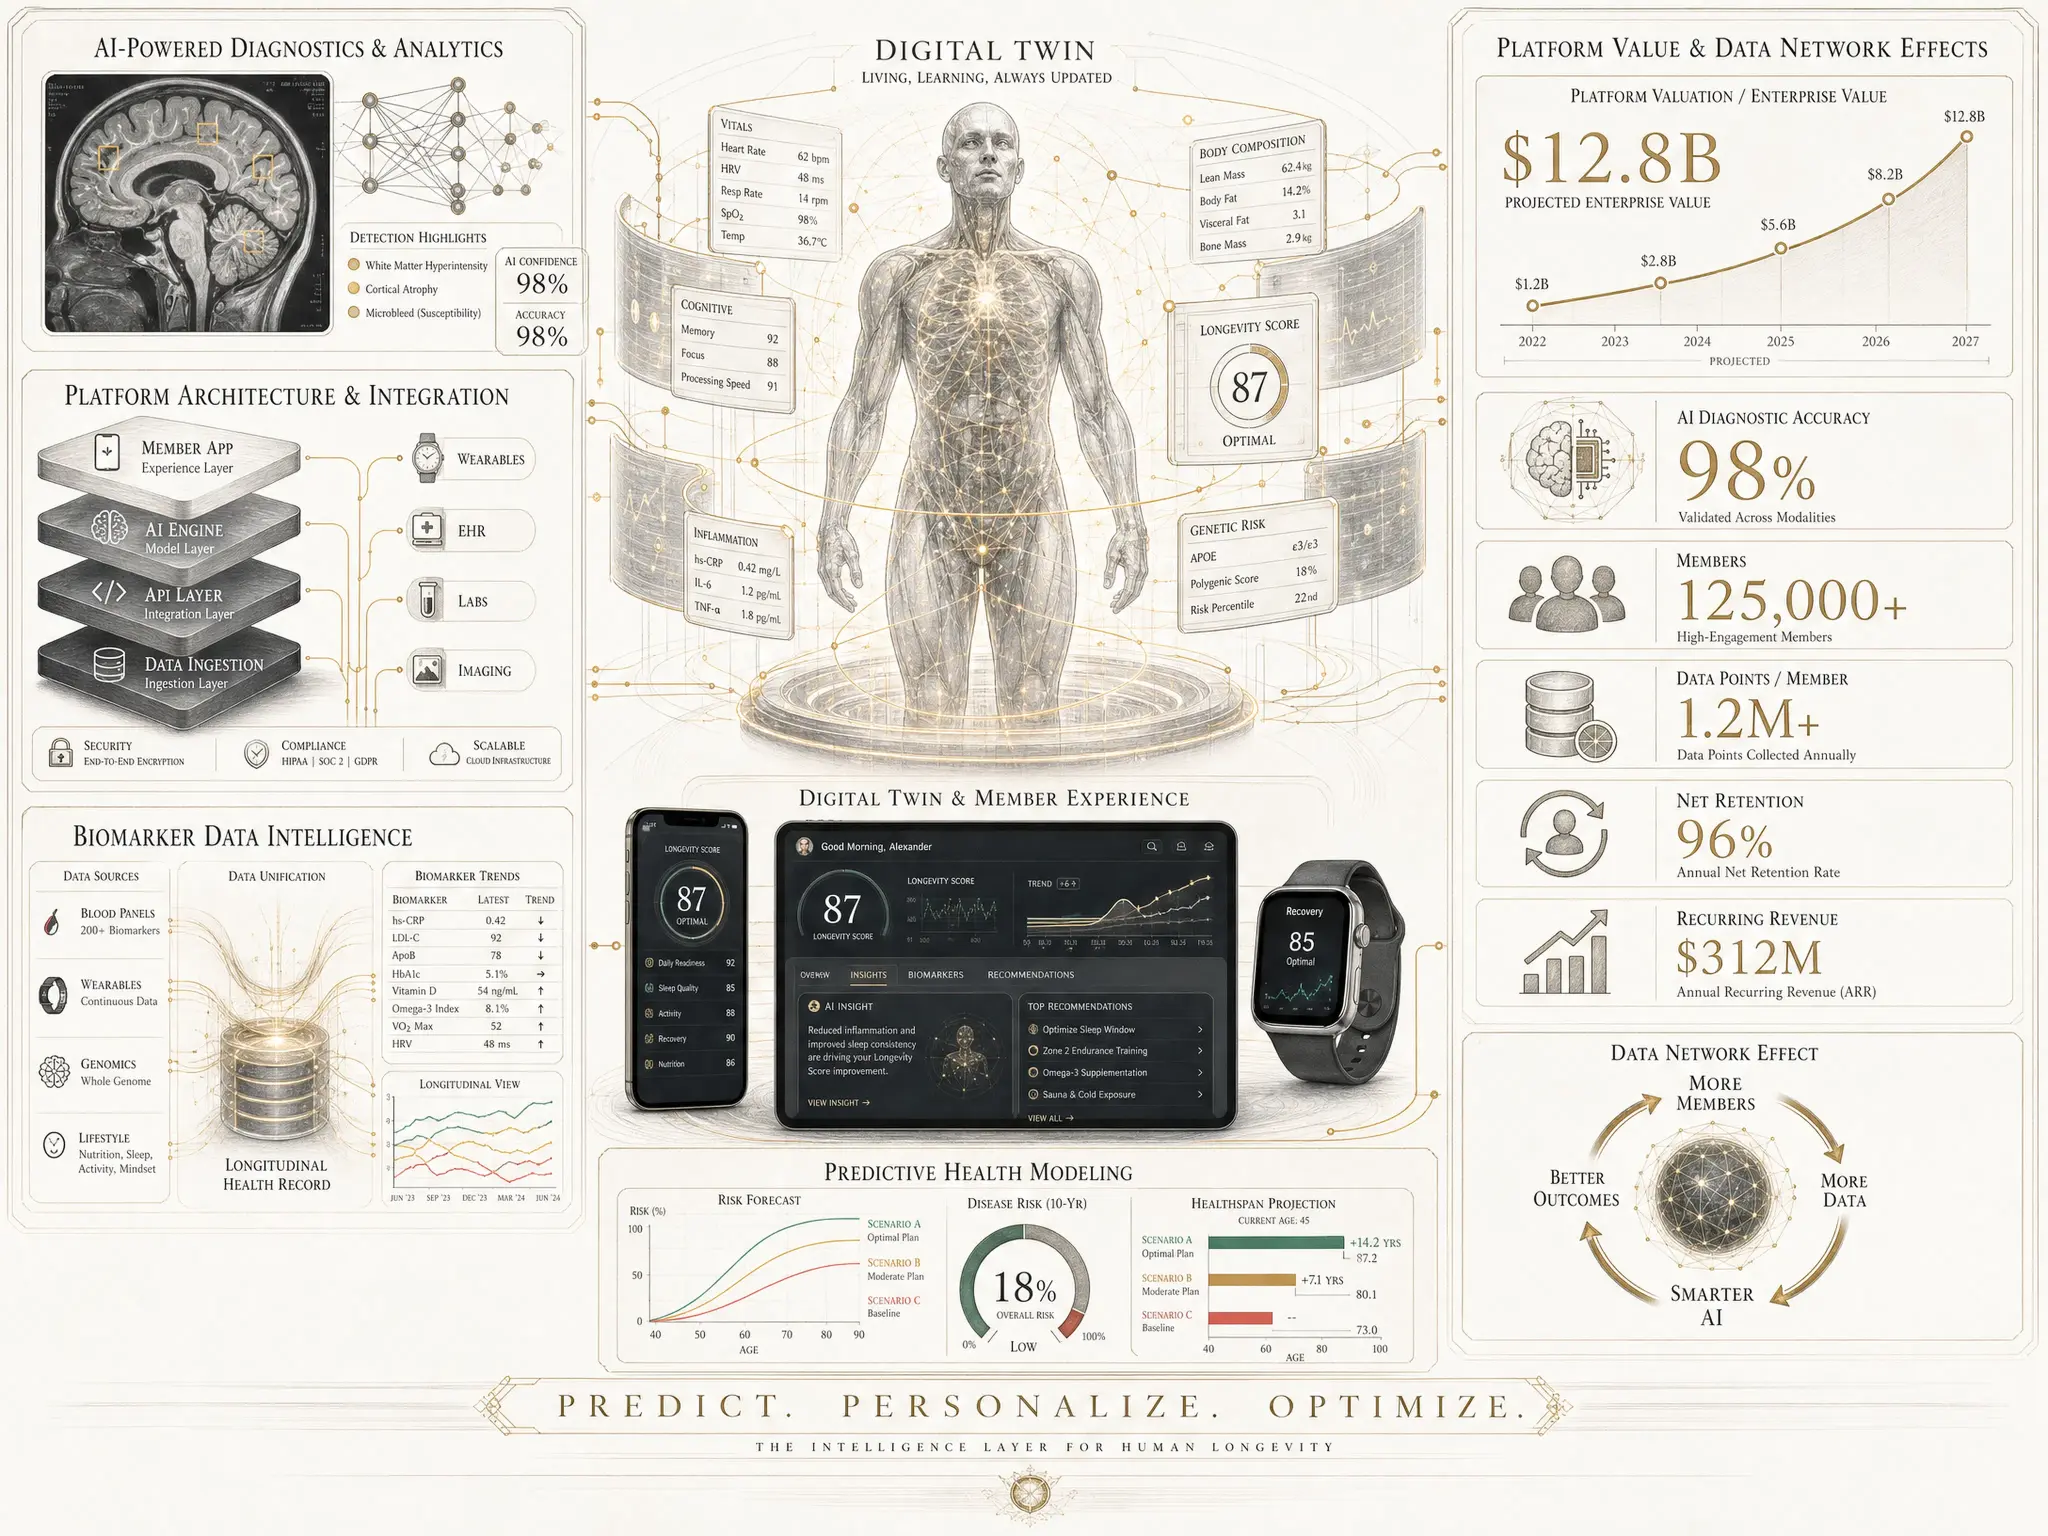
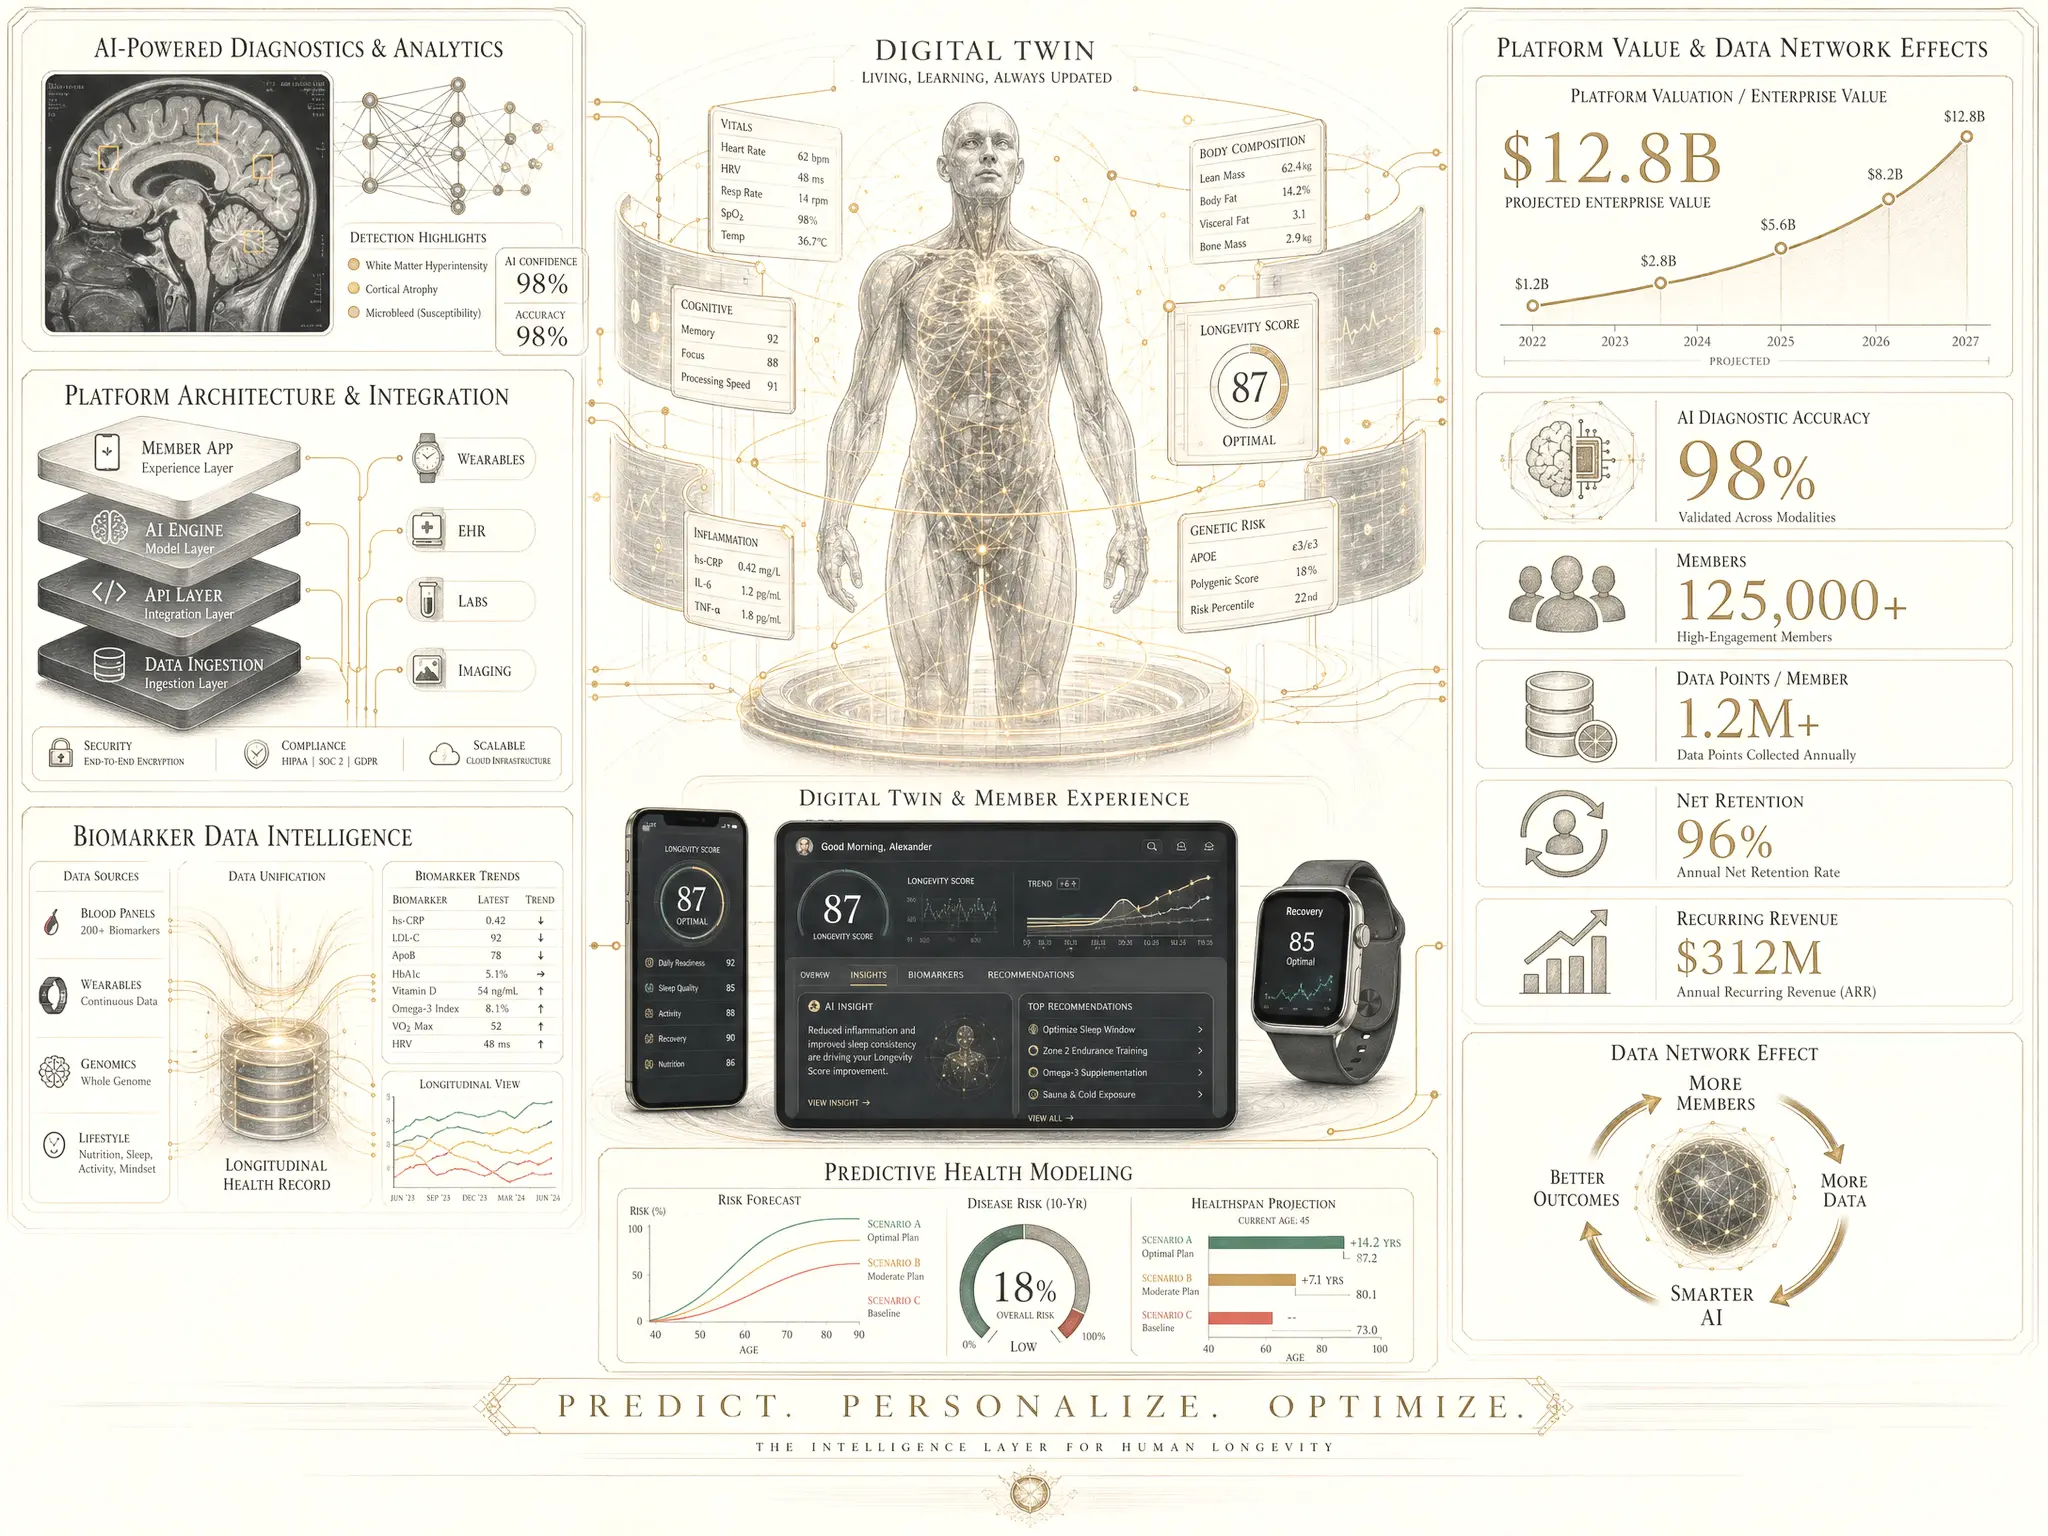
Replace all 4 card artwork with updated 4K versions

diff --git a/client/src/pages/Landing.tsx b/client/src/pages/Landing.tsx
@@ -557,7 +557,7 @@ export default function Landing() {
                 audience: 'For Investors & Operators',
                 href: '/longevity',
                 bgImage: '/card-bg-longevity.jpg',
-                ghostArt: '/card01-longevity.jpg',
+                ghostArt: '/card01-longevity.webp',
               },
               {
                 num: '02',
@@ -566,7 +566,7 @@ export default function Landing() {
                 audience: 'For Product Companies & Brands',
                 href: '/product-intelligence',
                 bgImage: '/card-bg-product.jpg',
-                ghostArt: '/card02-brand.jpg',
+                ghostArt: '/card02-brand.webp',
               },
               {
                 num: '03',
